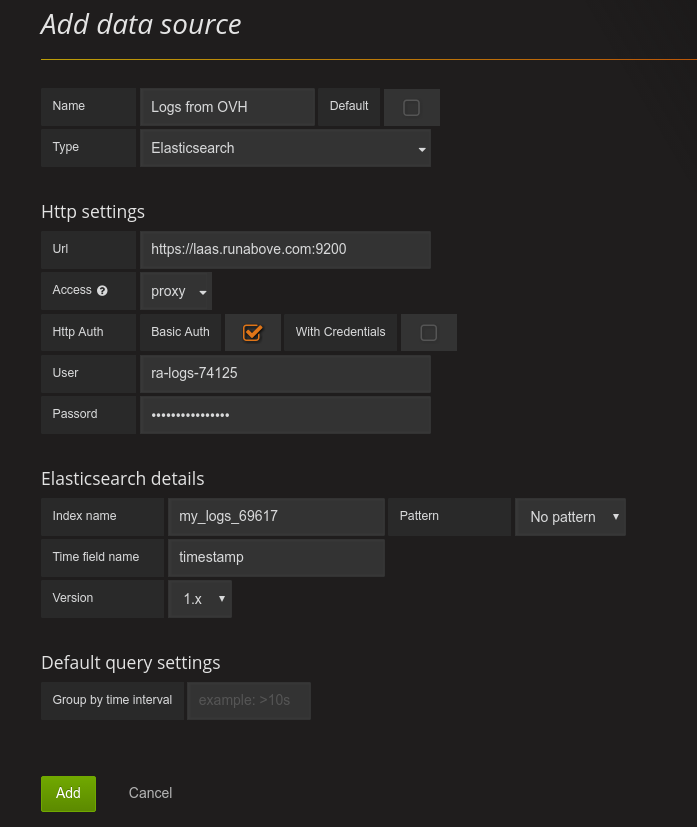
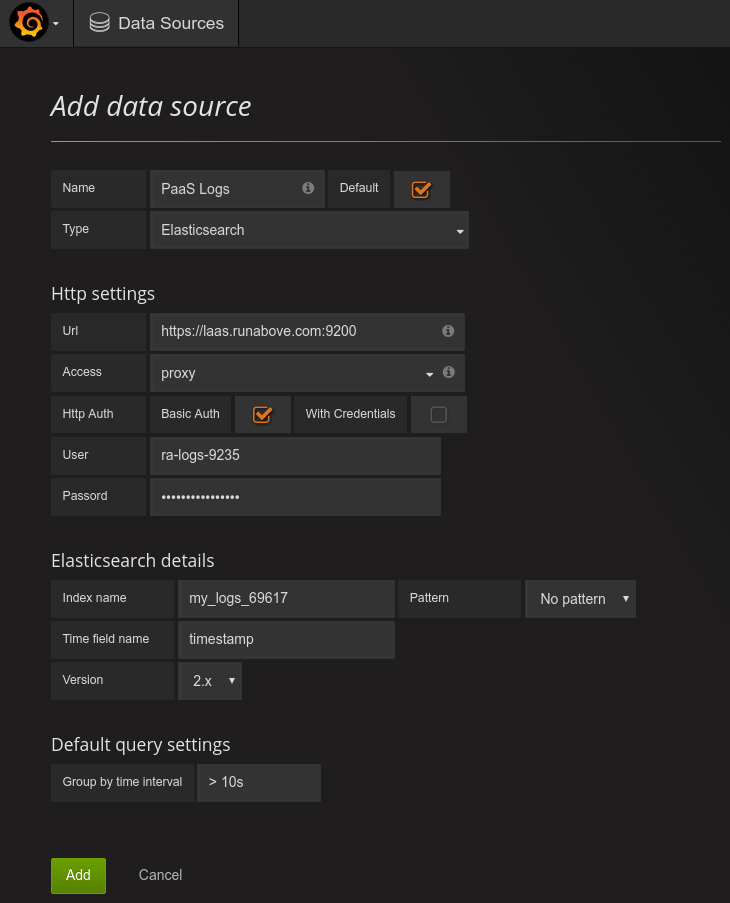
Graylog, ES 2 (#141)

diff --git a/en/_posts/2016-02-28-using-grafana-with-laas.md b/en/_posts/2016-02-28-using-grafana-with-laas.md
@@ -35,12 +35,12 @@ So here you have, now PaaS Logs knows what is the streams you wnat to browse. No
 
 #2 Setup your own grafana
 
-Get last Grafana release here: [http://grafana.org/download/](http://grafana.org/download/) (v3.0.0-beta2 - 2016-04-04 at the time of writing). Here are some direct links for your convenience. 
+Get last Grafana release here: [http://grafana.org/download/](http://grafana.org/download/) (v3.1.0-beta1 2016-06-23 at the time of writing). Here are some direct links for your convenience. 
 
- - [DEB (Ubuntu / Debian 64 bit)](https://grafanarel.s3.amazonaws.com/builds/grafana_3.0.0-beta21459801392_amd64.deb)
- - [RPM (Fedora / RHEL 64 bit)](https://grafanarel.s3.amazonaws.com/builds/grafana-3.0.0-beta21459801392.x86_64.rpm)
- - [Binary TAR (Linux 64 bit)](https://grafanarel.s3.amazonaws.com/builds/grafana-3.0.0-beta21459801392.linux-x64.tar.gz)
- - [Binary ZIP (Windows 64 bit)](https://grafanarel.s3.amazonaws.com/winbuilds/dist/grafana-3.0.0-beta2.windows-x64.zip)
+ - [DEB (Ubuntu / Debian 64 bit)](https://grafanarel.s3.amazonaws.com/builds/grafana_3.1.0-1466666977beta1_amd64.deb)
+ - [RPM (Fedora / RHEL 64 bit)](https://grafanarel.s3.amazonaws.com/builds/grafana-3.1.0-1466666977beta1.x86_64.rpm)
+ - [Binary TAR (Linux 64 bit)](https://grafanarel.s3.amazonaws.com/builds/grafana-3.1.0-1466666977beta1.linux-x64.tar.gz)
+ - [Binary ZIP (Windows 64 bit)](https://grafanarel.s3.amazonaws.com/winbuilds/dist/grafana-3.1.0-beta1.windows-x64.zip)
 
 Then follow the Grafana installation guide according your platform: [http://docs.grafana.org/installation/](http://docs.grafana.org/installation/)
 
@@ -59,7 +59,7 @@ Once logged in with your grafana credentials, reach data sources panel to setup 
 	<li>Set your PaaS Logs credentials for Basic auth values</li>
 	<li>Set your PaaS Logs alias name as Grafana Index name value</li>
 	<li>Change default Time field name to timestamp</li>
-	<li>Set 1.x as Elasticsearch version</li>
+	<li>Set 2.x as Elasticsearch version</li>
   </ul>
 </div>
 

diff --git a/en/_posts/2016-03-08-quick-start.md b/en/_posts/2016-03-08-quick-start.md
@@ -155,7 +155,7 @@ Press Enter or click on the Green button to launch the search and wait for your 
 You can also search some part of your message by entering: 
 `helps going`. It will give you all the messages that contains the terms 'help' and 'going'.
 
-Graylog allows you to extensively search through your logs without compromising usability. If you want to know more about how to craft relevant searches on Graylog, head to [Graylog Search Documentation](http://docs.graylog.org/en/1.3/pages/queries.html).
+Graylog allows you to extensively search through your logs without compromising usability. If you want to know more about how to craft relevant searches on Graylog, head to [Graylog Search Documentation](http://docs.graylog.org/en/2.0/pages/queries.html).
 
 Send several logs with different value for user\_id for example. At the left of the page you will see the fields present in your stream, you can click on the user\_id checkbox to display all the values for this field along the logs.
 
@@ -193,7 +193,7 @@ We have only scratched the surface of what PaaS Logs can do for you. you will fi
   - Using roles to allow other users of the lab to let them see yours beautiful Dashboards or let them dig in your Streams instead of doing it for them.
   - Using Alerts to be woken up at 3 AM by an e-mail when your world collapse. 
   - [Using Kibana and aliases to unleash the power of elasticsearch](/kb/en/logs/using-kibana-with-laas.html)
-  - If you want to master Graylog, this is the place to go: [Graylog documentation](http://docs.graylog.org/en/1.3/pages/queries.html)
+  - If you want to master Graylog, this is the place to go: [Graylog documentation](http://docs.graylog.org/en/2.0/pages/queries.html)
 
 
 #Getting Help

diff --git a/en/_posts/2016-02-29-using-kibana-with-laas.md b/en/_posts/2016-02-29-using-kibana-with-laas.md
@@ -43,12 +43,12 @@ To access your logs from Kibana, you will need to setup an Elasticsearch Alias a
 So here you have, now PaaS Logs knows what is the streams you wnat to browse. Now let's configure Kibana and see if it works ! 
 
 #3 Setup your own kibana
-Get last Kibana **4.1.X** for **Elasticsearch 1.x** here (do NOT try to use 4.2 and 4.3 since they are made for incompatible version of Elasticsearch) [https://www.elastic.co/downloads/kibana](https://www.elastic.co/downloads/kibana) (4.1.6 at the time of writing). Here are some direct links for your convenience.
+Get last Kibana **4.5.X** for **Elasticsearch 2.x** here [https://www.elastic.co/downloads/kibana](https://www.elastic.co/downloads/kibana) (4.5.1 at the time of writing). Here are some direct links for your convenience.
 
- - [WINDOWS](https://download.elastic.co/kibana/kibana/kibana-4.1.6-windows.zip)
- - [MAC](https://download.elastic.co/kibana/kibana/kibana-4.1.6-darwin-x64.tar.gz)
- - [LINUX 64-BIT](https://download.elastic.co/kibana/kibana/kibana-4.1.6-linux-x64.tar.gz)
- - [LINUX 32-BIT](https://download.elastic.co/kibana/kibana/kibana-4.1.6-linux-x86.tar.gz)
+ - [WINDOWS](https://download.elastic.co/kibana/kibana/kibana-4.5.1-windows.zip)
+ - [MAC](https://download.elastic.co/kibana/kibana/kibana-4.5.1-darwin-x64.tar.gz)
+ - [LINUX 64-BIT](https://download.elastic.co/kibana/kibana/kibana-4.5.1-linux-x64.tar.gz)
+ - [LINUX 32-BIT](https://download.elastic.co/kibana/kibana/kibana-4.5.1-linux-x86.tar.gz)
 
 
 Unzip the archive anywhere on your machine.

diff --git a/en/_posts/2016-02-27-logstash-input.md b/en/_posts/2016-02-27-logstash-input.md
@@ -115,7 +115,7 @@ This certificate and its associated key can be found at the following paths :  `
 To host this input in the PaaS Logs, you will need to configure it in the PaaS Logs manager. Check the `Inputs` panel next to the Stream one and click on the '+' button. The Manager will then ask you to select your Engine : Select `Logstash 2.3` and put a elegant name and a wonderful description. Click on the blue floppy disk button and TA-DA, your input is created. 
 
 
-![logstash_creation](/kb/images/2016-02-27-logstash-input/logstash_creation.png)
+![logstash_creation](/kb/images/2016-02-27-logstash-input/logstash_created.png)
 
 
 The Engine won't allow you to start it if you do not configure it properly. So let's do it !
